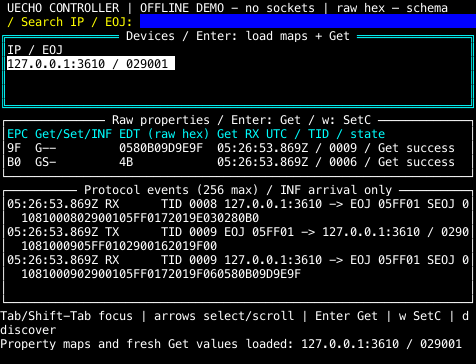
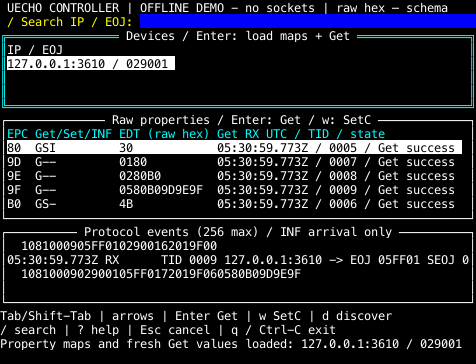
fix(examples): keep compact TUI properties and key hints visible

diff --git a/examples/uechotui/internal/dashboard/dashboard.go b/examples/uechotui/internal/dashboard/dashboard.go
@@ -72,7 +72,7 @@ func New(s *controller.Session, peer, mode string) *Dashboard {
 	})
 	d.props.SetSelectedFunc(func(int, int) { d.get() })
 	d.body = tview.NewFlex()
-	footer := tview.NewTextView().SetText("Tab/Shift-Tab focus | arrows select/scroll | Enter Get | w SetC | d discover\n/ search | ? help | Esc cancel request/dialog | q / Ctrl-C quit")
+	footer := tview.NewTextView().SetText("Tab/Shift-Tab | arrows | Enter Get | w SetC | d discover\n/ search | ? help | Esc cancel | q / Ctrl-C exit")
 	d.root = tview.NewFlex().SetDirection(tview.FlexRow).AddItem(d.header, 1, 0, false).AddItem(d.search, 1, 0, false).AddItem(d.body, 0, 1, true).AddItem(d.logs, 9, 0, false).AddItem(footer, 2, 0, false).AddItem(d.status, 2, 0, false)
 	d.pages = tview.NewPages().AddPage("main", d.root, true, true)
 	d.App.SetRoot(d.pages, true).EnableMouse(false).EnablePaste(true).SetFocus(d.devices).SetInputCapture(d.capture)
@@ -88,8 +88,10 @@ func New(s *controller.Session, peer, mode string) *Dashboard {
 		w, h := screen.Size()
 		d.body.Clear()
 		if w < 100 || h < 28 {
+			d.root.ResizeItem(d.logs, 6, 0)
 			d.body.SetDirection(tview.FlexRow).AddItem(d.devices, 6, 0, false).AddItem(d.props, 0, 1, false)
 		} else {
+			d.root.ResizeItem(d.logs, 9, 0)
 			d.body.SetDirection(tview.FlexColumn).AddItem(d.devices, 38, 0, false).AddItem(d.props, 0, 1, false)
 		}
 		d.refresh(false)

diff --git a/examples/uechotui/internal/dashboard/dashboard_test.go b/examples/uechotui/internal/dashboard/dashboard_test.go
@@ -371,3 +371,25 @@ func TestContextShutdownCancelsWorker(t *testing.T) {
 		t.Fatal("screen not finalized")
 	}
 }
+
+func TestCompactKeysRemainVisible(t *testing.T) {
+	d, s := setup(t)
+	s.SetSize(68, 26)
+	drawScreen(d, s)
+	cells, w, h := s.GetContents()
+	var text strings.Builder
+	for y := 0; y < h; y++ {
+		for x := 0; x < w; x++ {
+			r := cells[y*w+x].Runes
+			if len(r) > 0 {
+				text.WriteRune(r[0])
+			}
+		}
+		text.WriteByte('\n')
+	}
+	for _, hint := range []string{"/ search | ? help", "Esc cancel | q / Ctrl-C exit", "EDT (raw hex)"} {
+		if !strings.Contains(text.String(), hint) {
+			t.Fatalf("compact hint %q hidden:\n%s", hint, text.String())
+		}
+	}
+}
